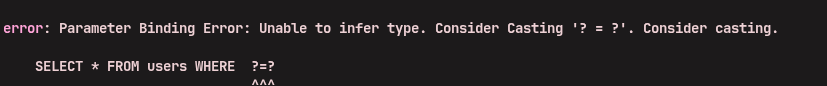
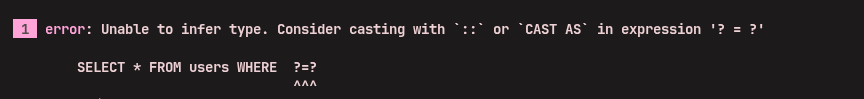
readme stuffs

Changed region(s): [[0.0, 0.186, 0.9371, 0.4186], [0.0302, 0.6047, 0.393, 0.8837], [0.3023, 0.907, 0.3325, 1.0]]

diff --git a/README.md b/README.md
@@ -67,9 +67,10 @@ Since SQLite defaults to nullable columns, the type inference system defaults to
 
 It is strongly recommended to use [STRICT tables](https://sqlite.org/stricttables.html) for better compile time guarantees. Recommended to use [WITHOUT ROWID](https://www.sqlite.org/withoutrowid.html).
 
-There will be rare scenarios when a type is impossible to infer (e.g. `SELECT ?`). `LazySql` will tell you specifically which binding parameter or expression cannot be inferred and will suggest using type casting via PostgreSQL's `::` operator or standard SQL's `CAST AS`
+There will be rare scenarios when a type is impossible to infer. `LazySql` will tell you specifically which binding parameter or expression cannot be inferred and will suggest using type casting via PostgreSQL's `::` operator or standard SQL's `CAST AS`
 
-For instance
+For instance,
+
 ![Alt Text](./amedia_for_readme/error_1.png)
 ![Alt Text](./amedia_for_readme/error_2.png)
 
